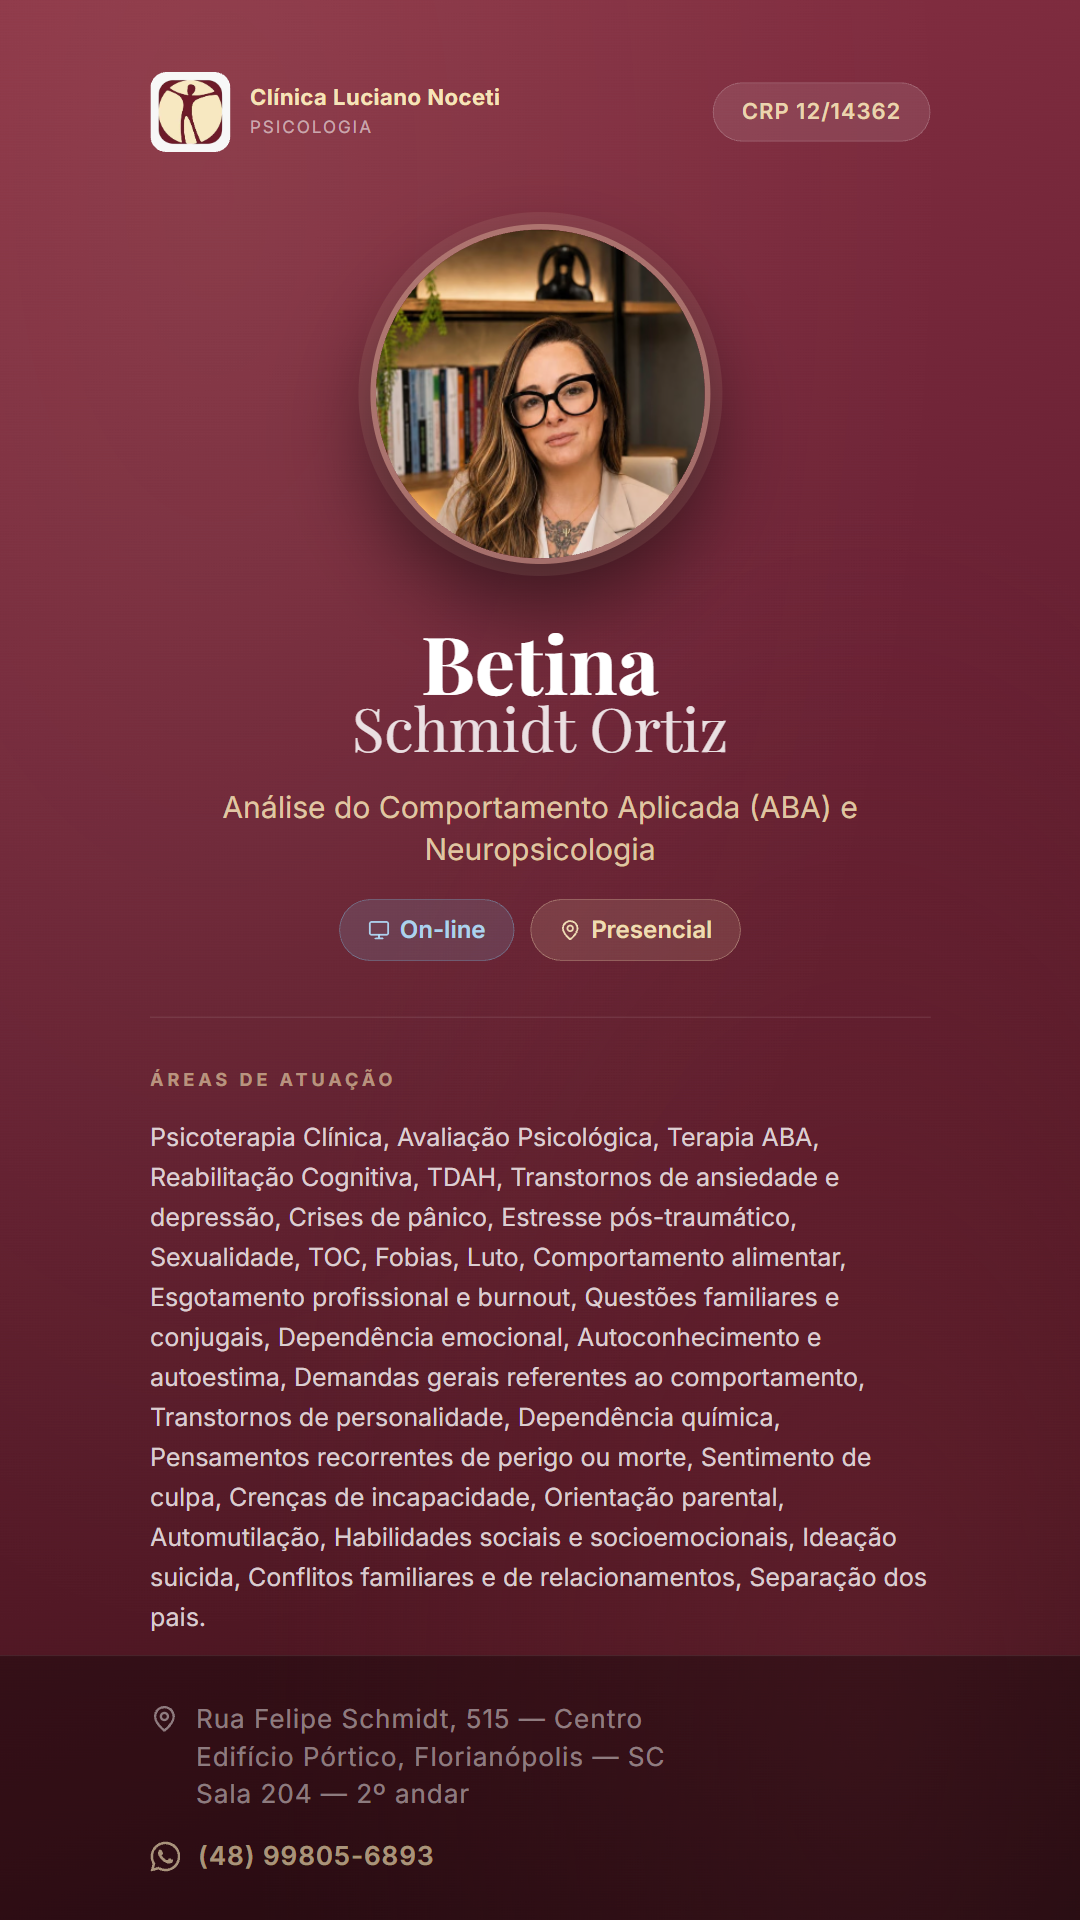
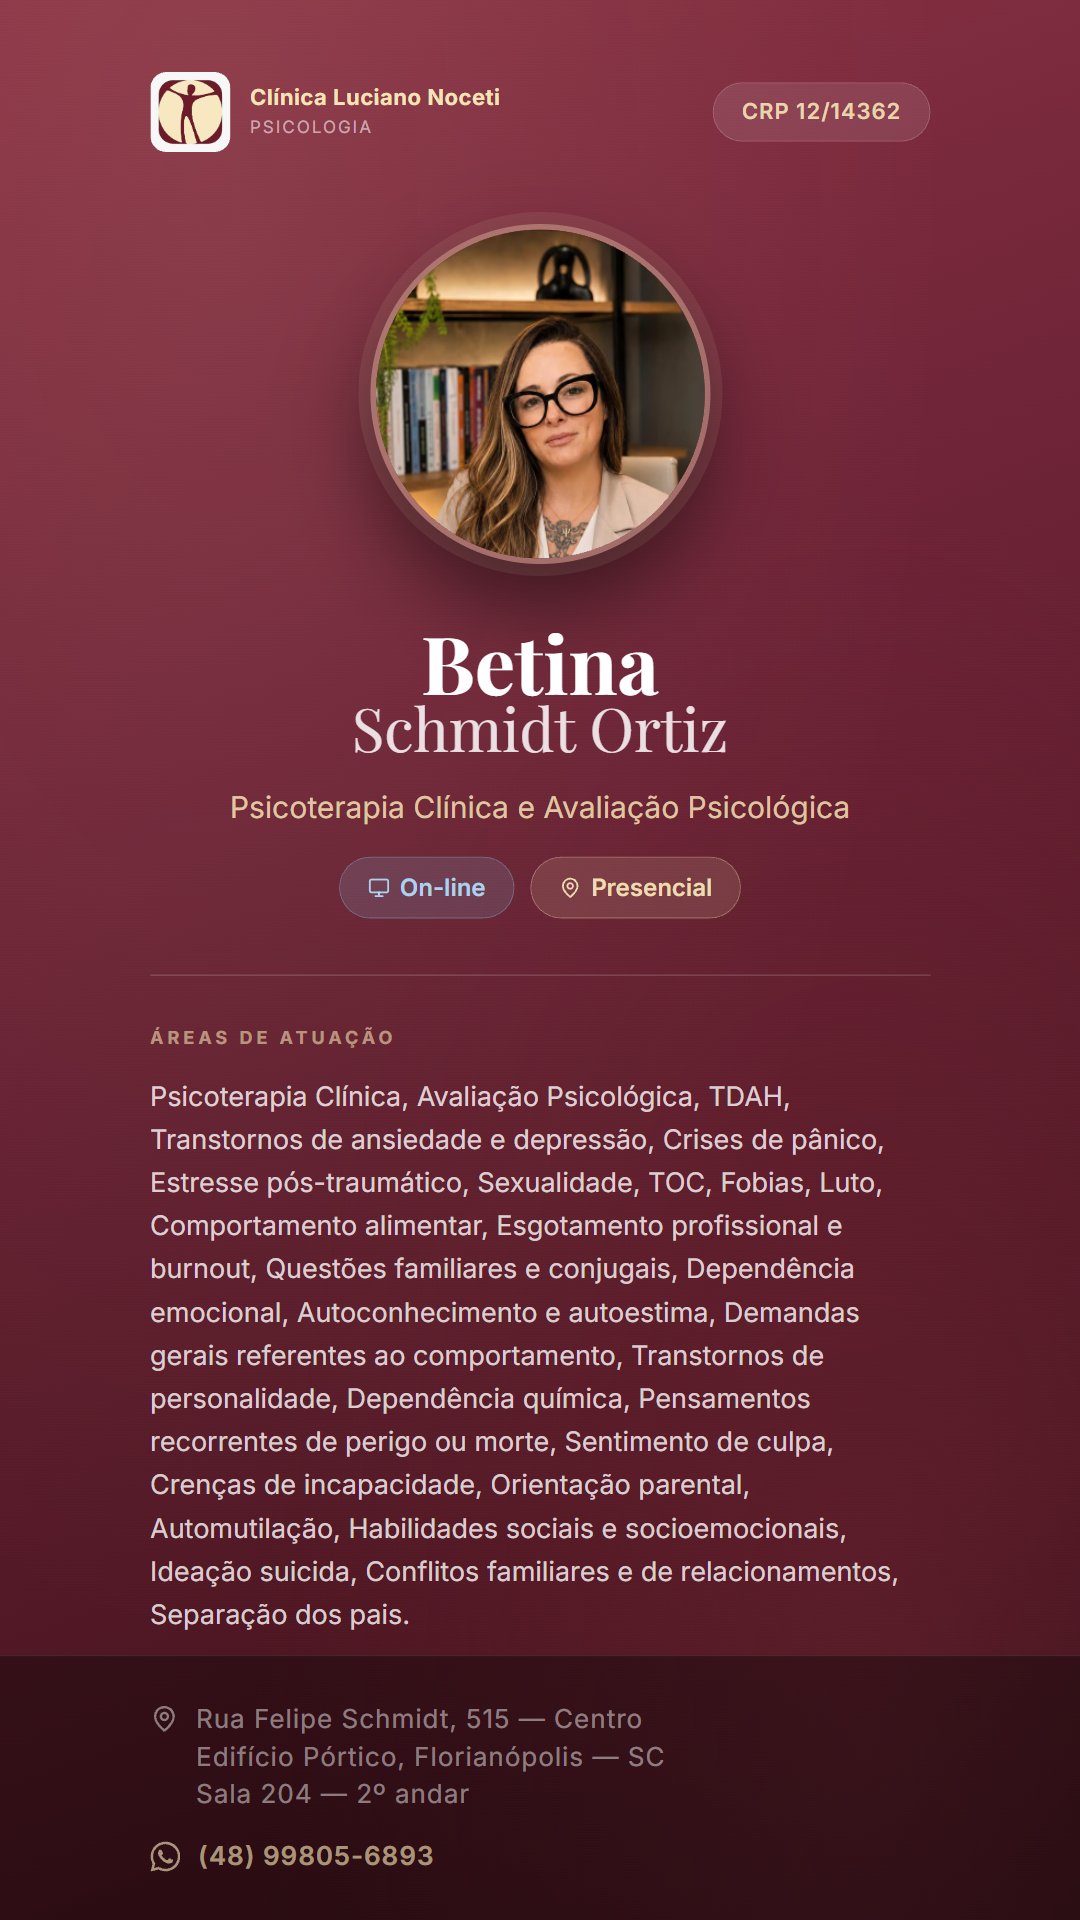
fix(equipe): remove ABA e Neuropsicologia do perfil de Betina Schmidt Ortiz
Ela ainda nao possui essas certificacoes. Saem do metodo, dos filtros, da
formacao (pos-graduanda em Neuropsicologia, Terapia ABA e Reabilitacao
NeuroCognitiva) e das demandas (Terapia ABA, Reabilitacao Cognitiva).

No lugar fica o que a propria descricao dela sustenta: Psicoterapia Clinica
e Avaliacao Psicologica. Como filtros exige ao menos um valor e ela nao
declara abordagem teorica, "Avaliacao Psicologica" entra em FILTROS_VALIDOS
mas fora de ORDEM_FILTROS, entao nenhum chip novo aparece na home.

Card do Instagram regerado com o texto corrigido.

Changed region(s): [[0.1222, 0.5312, 0.8556, 0.8438], [0.2139, 0.4062, 0.7944, 0.5]]

diff --git a/lib/profissionais.ts b/lib/profissionais.ts
@@ -1,8 +1,9 @@
 import { z } from 'zod'
 
 const FILTROS_VALIDOS = [
-  'ABA', 'AC', 'Centrada na Pessoa', 'Existencialismo', 'Gestalt', 'Junguiana', 'Neuropsicologia',
-  'Psicanálise', 'Psicodrama', 'Sistêmica Familiar', 'TCC', 'Transpessoal',
+  'ABA', 'AC', 'Avaliação Psicológica', 'Centrada na Pessoa', 'Existencialismo', 'Gestalt',
+  'Junguiana', 'Neuropsicologia', 'Psicanálise', 'Psicodrama', 'Sistêmica Familiar', 'TCC',
+  'Transpessoal',
 ] as const
 
 export const ProfSchema = z.object({
@@ -157,11 +158,11 @@ export const profissionais: Prof[] = [
   {
     nome: 'Betina Schmidt Ortiz',
     registro: 'CRP 12/14362',
-    metodo: 'Análise do Comportamento Aplicada (ABA) e Neuropsicologia',
-    filtros: ['ABA', 'Neuropsicologia'],
-    formacao: 'Graduação em Psicologia pela Faculdade de Ciências Sociais de Florianópolis (FCSF - CESUSC); Pós-graduanda em Neuropsicologia; Terapia ABA - Análise do Comportamento Aplicada; Reabilitação NeuroCognitiva - TEA, TDAH, AVC, TCE e outros comprometimentos das funções cerebrais que demandem intervenção.',
+    metodo: 'Psicoterapia Clínica e Avaliação Psicológica',
+    filtros: ['Avaliação Psicológica'],
+    formacao: 'Graduação em Psicologia pela Faculdade de Ciências Sociais de Florianópolis (FCSF - CESUSC).',
     publico: 'Atende a partir dos 6 anos (Crianças, Adolescentes e Adultos) e Estrangeiros de língua inglesa. Atendimento Presencial e On-line.',
-    demandas: 'Psicoterapia Clínica, Avaliação Psicológica, Terapia ABA, Reabilitação Cognitiva, TDAH, Transtornos de ansiedade e depressão, Crises de pânico, Estresse pós-traumático, Sexualidade, TOC, Fobias, Luto, Comportamento alimentar, Esgotamento profissional e burnout, Questões familiares e conjugais, Dependência emocional, Autoconhecimento e autoestima, Demandas gerais referentes ao comportamento, Transtornos de personalidade, Dependência química, Pensamentos recorrentes de perigo ou morte, Sentimento de culpa, Crenças de incapacidade, Orientação parental, Automutilação, Habilidades sociais e socioemocionais, Ideação suicida, Conflitos familiares e de relacionamentos, Separação dos pais.',
+    demandas: 'Psicoterapia Clínica, Avaliação Psicológica, TDAH, Transtornos de ansiedade e depressão, Crises de pânico, Estresse pós-traumático, Sexualidade, TOC, Fobias, Luto, Comportamento alimentar, Esgotamento profissional e burnout, Questões familiares e conjugais, Dependência emocional, Autoconhecimento e autoestima, Demandas gerais referentes ao comportamento, Transtornos de personalidade, Dependência química, Pensamentos recorrentes de perigo ou morte, Sentimento de culpa, Crenças de incapacidade, Orientação parental, Automutilação, Habilidades sociais e socioemocionais, Ideação suicida, Conflitos familiares e de relacionamentos, Separação dos pais.',
     atendimento: 'Unimed, Cartão Acesso + Fácil (Unimed), Saudesc, Celos, Elo saúde, Abepom, Casacaresc, Sc Saúde, Sim Saúde, Geap, Fusex, Petrobras, Saúde Caixa, Sidesc e Particular.',
     foto: '/equipe/betina_psico.avif',
   },
